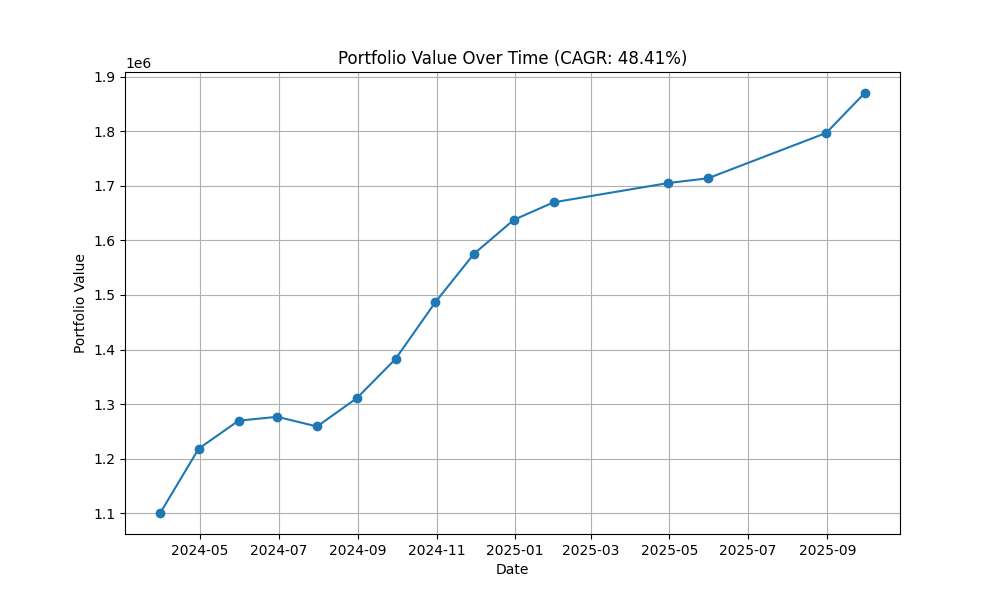
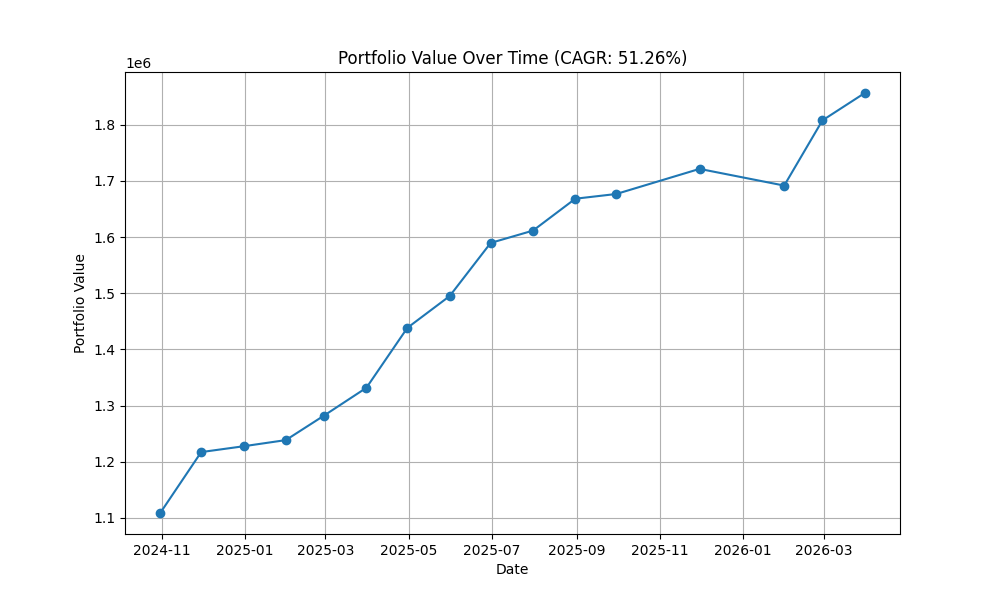
Added more volatile synthetic test.csv, added optimisation for best N

diff --git a/test_sim.py b/test_sim.py
@@ -5,6 +5,7 @@ import os
 import numpy as np
 import matplotlib.pyplot as plt
 
+# Load the model and parameters
 model_file_path = 'catboost_ng_model.bin'
 params_file_path = 'best_params.json'
 
@@ -12,32 +13,26 @@ if os.path.exists(model_file_path):
     loaded_model = cb.CatBoostRegressor()
     loaded_model.load_model(model_file_path)
 else:
-    print(f"Model file {model_file_path} does not exist.")
+    raise FileNotFoundError(f"Model file {model_file_path} does not exist.")
 
 if os.path.exists(params_file_path):
     with open(params_file_path, 'r') as f:
         loaded_best_params = json.load(f)
     print("Loaded Best Parameters:", loaded_best_params)
 else:
-    print(f"Parameters file {params_file_path} does not exist.")
+    raise FileNotFoundError(f"Parameters file {params_file_path} does not exist.")
 
+# Load and prepare data
 new_data = pd.read_csv('NG/test.csv')
 new_data['DATE'] = pd.to_datetime(new_data['DATE'])
 new_data.set_index('DATE', inplace=True)
-
 monthly_data = new_data.resample('M').mean()
-
 monthly_data.reset_index(inplace=True)
-# print("Ground Truth", monthly_data['NG_Spot_Price'])
+
 features = [col for col in monthly_data.columns if col not in ['DATE', 'Week of', 'NG_Spot_Price']]
 monthly_X = monthly_data[features]
-
-# print("Features used for prediction:", monthly_X.columns)
-
 monthly_predictions = loaded_model.predict(monthly_X)
-# print("Monthly Predictions:", monthly_predictions)
 
-# Calculate the percentage change for the next N months
 def calculate_percentage_change(values, N):
     pct_changes = []
     for i in range(len(values) - N):
@@ -45,121 +40,115 @@ def calculate_percentage_change(values, N):
         pct_changes.append(pct_change)
     return pct_changes
 
-N = 6 # Number of months ahead for percentage change calculation
-
-percentage_changes_pred = calculate_percentage_change(monthly_predictions, N)
-print(f"Percentage changes for the next {N} months (predictions):", percentage_changes_pred)
-
-y_true = monthly_data['NG_Spot_Price'].values
-percentage_changes_true = calculate_percentage_change(y_true, N)
-print(f"Percentage changes for the next {N} months (ground truth):", percentage_changes_true)
-
-min_length = min(len(percentage_changes_pred), len(percentage_changes_true))
-percentage_changes_pred = percentage_changes_pred[:min_length]
-percentage_changes_true = percentage_changes_true[:min_length]
-
-dates = monthly_data['DATE'][N:N + min_length]
-
-# Simulator
-initial_aum = 1000000  # AUM
-risk_tolerance = 1  # Risk factor
 threshold = 10
-max_risk_amount = initial_aum * risk_tolerance
+initial_aum = 1000000
+risk_tolerance = 1
 
-portfolio_value = initial_aum
-position_values = []
-portfolio_values = []
-order_book = []
-trade_dates = []
+def evaluate_strategy(N, threshold=threshold, initial_aum=initial_aum, risk_tolerance=risk_tolerance):
+    percentage_changes_pred = calculate_percentage_change(monthly_predictions, N)
+    y_true = monthly_data['NG_Spot_Price'].values
+    percentage_changes_true = calculate_percentage_change(y_true, N)
 
-#Static exit after each month (N months didn't work)
+    min_length = min(len(percentage_changes_pred), len(percentage_changes_true))
+    percentage_changes_pred = percentage_changes_pred[:min_length]
+    percentage_changes_true = percentage_changes_true[:min_length]
 
-for i in range(len(percentage_changes_pred)):
-    position_size = max_risk_amount * abs(percentage_changes_pred[i]) / 100
-    position_direction = np.sign(percentage_changes_pred[i])
+    if len(monthly_data['DATE']) < N + min_length:
+        return None
 
-    if abs(percentage_changes_pred[i]) > threshold:
-        direction = 'LONG' if position_direction > 0 else 'SHORT'
-        order_book.append((direction, position_size))
-        
-        profit_loss = (position_size * percentage_changes_true[i] / 100 * position_direction) - position_size * 0.05 #Includes 5% commission
-        portfolio_value += profit_loss
-        position_values.append(profit_loss)
-        portfolio_values.append(portfolio_value)
-        trade_dates.append(monthly_data['DATE'].iloc[i])
+    dates = monthly_data['DATE'][N:N + min_length]
 
-# Dynamic exit (not realistic, but ok)
+    max_risk_amount = initial_aum * risk_tolerance
+    portfolio_value = initial_aum
+    position_values = []
+    portfolio_values = []
+    order_book = []
+    trade_dates = []
 
-# positions = []
-# for i in range(len(percentage_changes_pred)):
-#     position_size = max_risk_amount * abs(percentage_changes_pred[i]) / 100
-#     position_direction = np.sign(percentage_changes_pred[i])
+    for i in range(len(percentage_changes_pred)):
+        position_size = max_risk_amount * abs(percentage_changes_pred[i]) / 100
+        position_direction = np.sign(percentage_changes_pred[i])
 
-#     if abs(percentage_changes_pred[i]) > 20:
-#         direction = 'LONG' if position_direction > 0 else 'SHORT'
-#         entry_price = monthly_data['NG_Spot_Price'].iloc[i]
-#         order_book.append((direction, position_size, entry_price))
-#         positions.append((direction, position_size, entry_price))
+        if abs(percentage_changes_pred[i]) > threshold:
+            direction = 'LONG' if position_direction > 0 else 'SHORT'
+            order_book.append((direction, position_size))
 
-#     for j, position in enumerate(positions):
-#         direction, size, entry_price = position
-#         exit_price = monthly_data['NG_Spot_Price'].iloc[i + 1]
-#         profit_loss = size * (exit_price - entry_price) * (1 if direction == 'LONG' else -1)
-#         portfolio_value += profit_loss
-#         position_values.append(profit_loss)
-#         portfolio_values.append(portfolio_value)
-#         positions[j] = None 
+            profit_loss = (position_size * percentage_changes_true[i] / 100 * position_direction) - position_size * 0.05  # Includes 5% commission
+            portfolio_value += profit_loss
+            position_values.append(profit_loss)
+            portfolio_values.append(portfolio_value)
+            trade_dates.append(dates.iloc[i])
 
-#     positions = [p for p in positions if p is not None]
+    returns = np.array(position_values)
+    mean_return = np.mean(returns)
+    std_return = np.std(returns)
+    sharpe_ratio = mean_return / std_return * np.sqrt(12) if std_return != 0 else 0
 
-#Metrics
-returns = np.array(position_values)
-mean_return = np.mean(returns)
-std_return = np.std(returns)
-sharpe_ratio = mean_return / std_return * np.sqrt(12)
+    cumulative_returns = np.cumsum(returns)
+    running_max = np.maximum.accumulate(cumulative_returns)
+    drawdown = cumulative_returns - running_max
+    max_drawdown = drawdown.min()
 
-cumulative_returns = np.cumsum(returns)
-running_max = np.maximum.accumulate(cumulative_returns)
-drawdown = cumulative_returns - running_max
-max_drawdown = drawdown.min()
-years = (monthly_data['DATE'].iloc[min_length] - monthly_data['DATE'].iloc[0]).days / 365.25
-cagr = ((portfolio_value / initial_aum) ** (1 / years) - 1) * 100
+    if len(dates) > 0:
+        years = (dates.iloc[-1] - dates.iloc[0]).days / 365.25
+        cagr = ((portfolio_value / initial_aum) ** (1 / years) - 1) * 100 if years != 0 else 0
+    else:
+        cagr = 0
 
-print(f'Initial aum: {initial_aum}')
-print(f'Risk: {risk_tolerance * 100}', '%')
-print(f'Sharpe Ratio: {sharpe_ratio}')
-print(f'Maximum Drawdown: {max_drawdown}')
-print(f'Max DD %: {(np.abs(max_drawdown)/initial_aum) * 100}', '%')
-print(f'Final Portfolio Value: {portfolio_value}')
-print(f'CAGR: {cagr}')
+    return {
+        'N': N,
+        'Sharpe Ratio': sharpe_ratio,
+        'Max Drawdown': max_drawdown,
+        'CAGR': cagr,
+        'Portfolio Value': portfolio_value,
+        'Order Book': order_book,
+        'Trade Dates': trade_dates,
+        'Portfolio Values': portfolio_values,
+        'Percentage Changes True': percentage_changes_true,
+        'Percentage Changes Pred': percentage_changes_pred,
+        'Dates': dates
+    }
 
+best_result = None
+best_N = None
 
-# Print the order book
-print("\nOrder Book:")
-print("Direction\tSize")
-for order in order_book:
-    print(f"{order[0]}\t{order[1]:.2f}")
+for N in range(1, 9):  # Adjust the range as needed
+    result = evaluate_strategy(N)
+    if result and (best_result is None or (result['Sharpe Ratio'] > best_result['Sharpe Ratio'] and result['Max Drawdown'] > -initial_aum)):
+        best_result = result
+        best_N = N
 
-# Print order book (Dynamic)
-# print("\nOrder Book:")
-# print("Direction\tSize\tEntry Price")
-# for order in order_book:
-#     print(f"{order[0]}\t{order[1]:.2f}\t{order[2]:.2f}")
+if best_result:
+    print(f'Best N: {best_N}')
+    print(f"Sharpe Ratio: {best_result['Sharpe Ratio']}")
+    print(f"Max Drawdown: {best_result['Max Drawdown']}")
+    print(f"Max DD %: {(np.abs(best_result['Max Drawdown']) / initial_aum) * 100}%")
+    print(f"Final Portfolio Value: {best_result['Portfolio Value']}")
+    print(f"CAGR: {best_result['CAGR']}")
 
-# plt.figure(figsize=(10, 6))
-# plt.plot(dates, percentage_changes_true, label=f'Actual NG Spot Price (percent change, next {N} month(s))', color='blue', marker='o')
-# plt.plot(dates, percentage_changes_pred, label=f'Predicted NG Spot Price (predicted percent change, next {N} month(s))', color='red', marker='x')
-# plt.xlabel('Date')
-# plt.ylabel('NG Spot Price change (%)')
-# plt.title('Actual vs Predicted changes in NG Spot Price')
-# plt.legend()
-# plt.grid(True)
-# plt.show()
+    # Print the order book
+    print("\nOrder Book:")
+    print("Direction\tSize")
+    for order in best_result['Order Book']:
+        print(f"{order[0]}\t{order[1]:.2f}")
 
-# plt.figure(figsize=(10, 6))
-# plt.plot(trade_dates, portfolio_values, marker='o')
-# plt.xlabel('Date')
-# plt.ylabel('Portfolio Value')
-# plt.title(f'Portfolio Value Over Time (CAGR: {cagr:.2f}%)')
-# plt.grid(True)
-# plt.show()
+    # Graphing
+    plt.figure(figsize=(10, 6))
+    plt.plot(best_result['Dates'], best_result['Percentage Changes True'], label=f'Actual NG Spot Price (percent change, next {best_N} month(s))', color='blue', marker='o')
+    plt.plot(best_result['Dates'], best_result['Percentage Changes Pred'], label=f'Predicted NG Spot Price (predicted percent change, next {best_N} month(s))', color='red', marker='x')
+    plt.xlabel('Date')
+    plt.ylabel('NG Spot Price change (%)')
+    plt.title('Actual vs Predicted changes in NG Spot Price')
+    plt.legend()
+    plt.grid(True)
+    plt.show()
+
+    plt.figure(figsize=(10, 6))
+    plt.plot(best_result['Trade Dates'], best_result['Portfolio Values'], marker='o')
+    plt.xlabel('Date')
+    plt.ylabel('Portfolio Value')
+    plt.title(f'Portfolio Value Over Time (CAGR: {best_result["CAGR"]:.2f}%)')
+    plt.grid(True)
+    plt.show()
+else:
+    print("No valid results found.")
